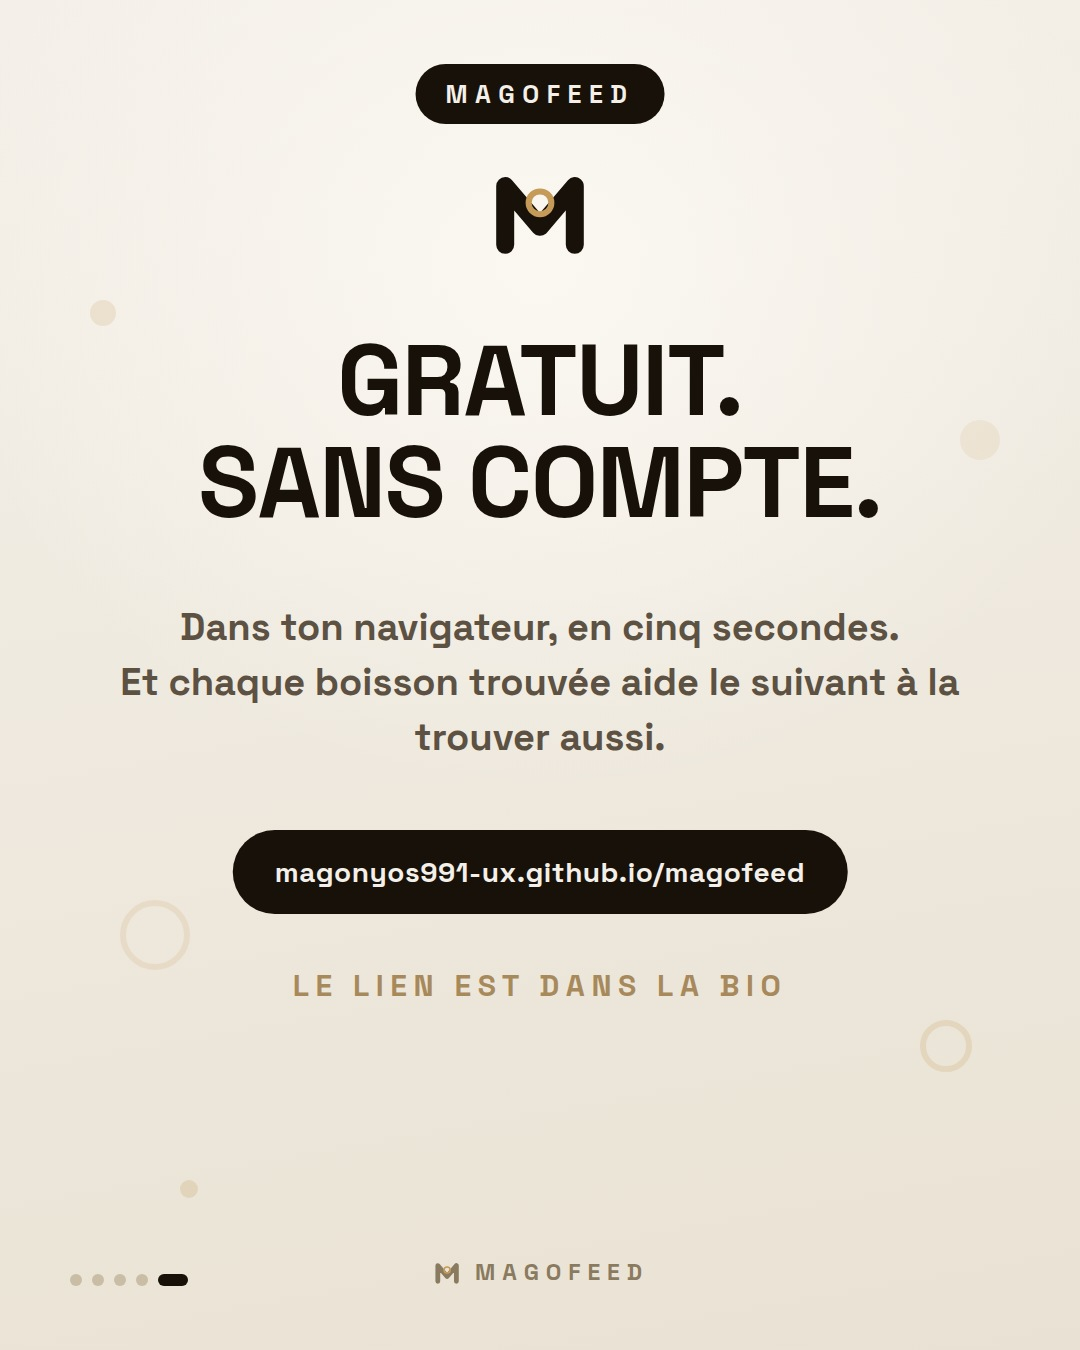
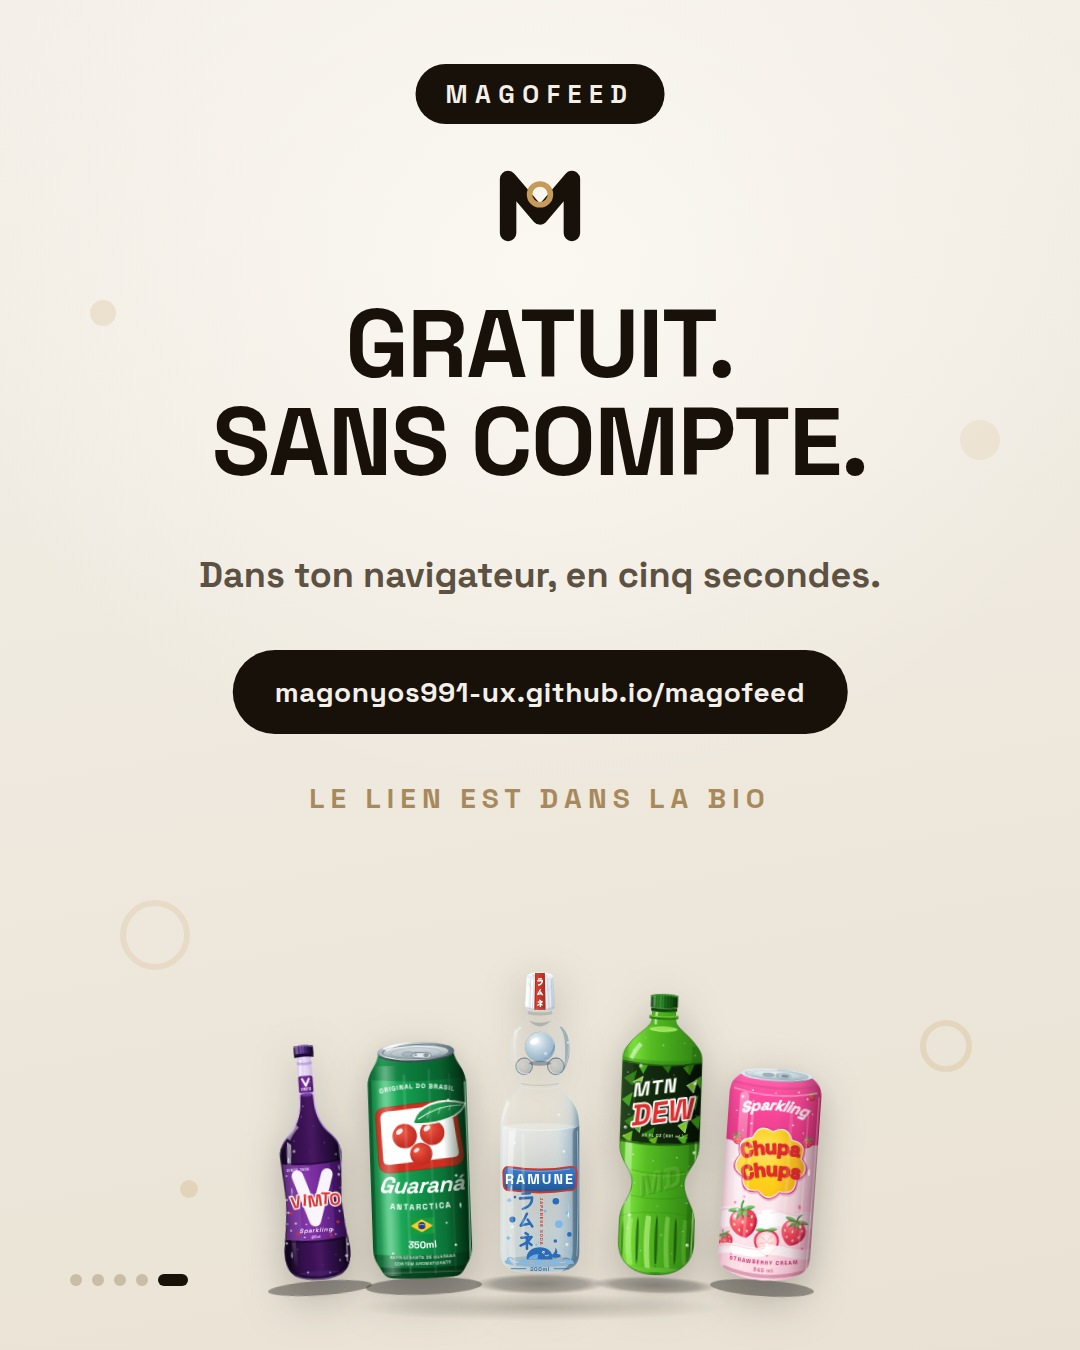
Carrousel : finitions pub sur les 5 diapos
Numeros d'etape en pastille doree, ombre de sol sous le telephone, la
bouteille Mountain Dew qui depasse a cote de l'ecran de recherche
(continuite avec la couverture), et la diapo finale refermee par l'etal
de boissons en petit sous l'appel a l'action, texte allege.

Claude-Session: https://claude.ai/code/session_01CjYjWML87j47KanLEUY7E6

diff --git a/promo/carrousel/make-slides.py b/promo/carrousel/make-slides.py
@@ -24,17 +24,20 @@ LINEUP = [
     ("mountain-dew", 745, 600,  2, 4),
     ("chupa-chups",  935, 500,  4, 3),
 ]
-def etal():
-    out=['<div style="position:absolute;left:50%;bottom:52px;width:960px;height:70px;'
-         'transform:translateX(-50%);z-index:2;border-radius:50%;'
-         'background:radial-gradient(closest-side,rgba(23,17,10,.22),transparent 70%)"></div>']
+def etal(scale=1.0, baseline=96):
+    sh=int(70*scale)
+    out=['<div style="position:absolute;left:50%%;bottom:%dpx;width:%dpx;height:%dpx;'
+         'transform:translateX(-50%%);z-index:2;border-radius:50%%;'
+         'background:radial-gradient(closest-side,rgba(23,17,10,.22),transparent 70%%)"></div>'
+         % (baseline-44*scale, int(960*scale), sh)]
     for slug,cx,h,rot,z in LINEUP:
-        w=int(h*900/1400)
+        h=int(h*scale); w=int(h*900/1400)
+        cx=int(540+(cx-540)*scale)
         left=int(cx-w/2)
-        out.append('<div class="bt" style="position:absolute;left:%dpx;bottom:96px;width:%dpx;height:%dpx;'
+        out.append('<div class="bt" style="position:absolute;left:%dpx;bottom:%dpx;width:%dpx;height:%dpx;'
                    'z-index:%d;transform:rotate(%ddeg);transform-origin:50%% 100%%;'
-                   'filter:drop-shadow(0 24px 38px rgba(23,17,10,.28))">%s</div>'
-                   % (left,w,h,z+2,rot,bottle_svg(slug)))
+                   'filter:drop-shadow(0 %dpx %dpx rgba(23,17,10,.28))">%s</div>'
+                   % (left,baseline,w,h,z+2,rot,int(24*scale),int(38*scale),bottle_svg(slug)))
     return '<div style="position:absolute;inset:0;z-index:3">'+"".join(out)+"</div>"
 
 BASE = u"""<!doctype html><html><head><meta charset="utf-8"><style>
@@ -51,9 +54,13 @@ html,body{width:1080px;height:1350px;overflow:hidden}
 .chip{position:absolute;left:50%%;top:64px;transform:translateX(-50%%);z-index:6;
   display:inline-flex;align-items:center;gap:12px;border-radius:999px;padding:14px 30px;
   font-size:25px;font-weight:700;letter-spacing:.3em;color:#f4f0e9;background:#17110a}
-.step{position:absolute;left:50%%;top:132px;transform:translateX(-50%%);z-index:6;
-  font-size:26px;font-weight:700;letter-spacing:.34em;color:#a8895c}
-.title{position:absolute;left:70px;right:70px;top:176px;z-index:6;text-align:center;
+.num{position:absolute;left:50%%;top:118px;transform:translateX(-50%%);z-index:6;
+  width:66px;height:66px;border-radius:50%%;background:#c69a57;color:#fff;
+  display:flex;align-items:center;justify-content:center;font-size:34px;font-weight:700;
+  box-shadow:0 10px 26px rgba(198,154,87,.4)}
+.pshadow{position:absolute;left:50%%;top:1226px;width:520px;height:52px;transform:translateX(-50%%);
+  z-index:3;border-radius:50%%;background:radial-gradient(closest-side,rgba(23,17,10,.24),transparent 70%%)}
+.title{position:absolute;left:70px;right:70px;top:206px;z-index:6;text-align:center;
   font-size:%(titleSize)spx;line-height:1.02;font-weight:700;letter-spacing:-.015em;color:#17110a}
 .sub{position:absolute;left:120px;right:120px;top:%(subTop)spx;z-index:6;text-align:center;
   font-size:33px;font-weight:500;line-height:1.4;color:#5c5142}
@@ -118,49 +125,51 @@ SLIDES = [
           + etal()),
     swipe=FLECHE, page=0),
   # 2 — etape 1
-  dict(step=u"ÉTAPE 1 / 3", titleSize=78, subTop=294, phoneTop=470, tilt=0, extraCss="",
-    body=(u'<div class="step">ÉTAPE 1 / 3</div>'
-          u'<div class="title">CHERCHE TA BOISSON</div>'
+  dict(step=u"ÉTAPE 1 / 3", titleSize=78, subTop=316, phoneTop=480, tilt=0, extraCss="",
+    body=(u'<div class="num">1</div>'
+          u'<div class="title">CHERCHE TA BOISSON</div><div class="pshadow"></div>'
+          + '<div class="bt" style="position:absolute;left:640px;bottom:104px;width:232px;height:360px;z-index:3;transform:rotate(10deg);transform-origin:50% 100%;filter:drop-shadow(0 20px 30px rgba(23,17,10,.25))">'+bottle_svg('mountain-dew')+'</div>'
           u'<div class="sub">Tape son nom — sodas japonais, mexicains, coréens… le catalogue mondial est déjà dedans.</div>'
           + phone("recherche", 470)),
     swipe=FLECHE, page=1),
   # 3 — etape 2
-  dict(step=u"ÉTAPE 2 / 3", titleSize=78, subTop=294, phoneTop=470, tilt=0, extraCss="",
-    body=(u'<div class="step">ÉTAPE 2 / 3</div>'
-          u'<div class="title">LA CARTE S’OUVRE</div>'
+  dict(step=u"ÉTAPE 2 / 3", titleSize=78, subTop=316, phoneTop=480, tilt=0, extraCss="",
+    body=(u'<div class="num">2</div>'
+          u'<div class="title">LA CARTE S’OUVRE</div><div class="pshadow"></div>'
           u'<div class="sub">Les magasins autour de toi s’affichent. Pin vert = rayon confirmé récemment.</div>'
           + phone("carte", 470, 0, "left:179px;top:354px;width:95px;height:95px")),
     swipe=FLECHE, page=2),
   # 4 — etape 3
-  dict(step=u"ÉTAPE 3 / 3", titleSize=78, subTop=294, phoneTop=470, tilt=0, extraCss="",
-    body=(u'<div class="step">ÉTAPE 3 / 3</div>'
-          u'<div class="title">APPUIE SUR « Y ALLER »</div>'
+  dict(step=u"ÉTAPE 3 / 3", titleSize=78, subTop=316, phoneTop=480, tilt=0, extraCss="",
+    body=(u'<div class="num">3</div>'
+          u'<div class="title">APPUIE SUR « Y ALLER »</div><div class="pshadow"></div>'
           u'<div class="sub">L’itinéraire s’ouvre dans Maps ou Waze. Trouvée ? Confirme — tu aides le suivant.</div>'
           + phone("fiche", 470, 0, "left:31px;top:215px;width:294px;height:70px;border-radius:26px")),
     swipe=FLECHE, page=3),
   # 5 — CTA
   dict(step="", titleSize=96, subTop=0, phoneTop=0, tilt=0, extraCss="""
-.title{top:330px;font-size:100px}
-.cta-sub{position:absolute;left:110px;right:110px;top:600px;z-index:6;text-align:center;
-  font-size:38px;font-weight:600;line-height:1.45;color:#5c5142}
-.url{position:absolute;left:50%;top:830px;transform:translateX(-50%);z-index:6;
+.title{top:296px;font-size:96px}
+.cta-sub{position:absolute;left:110px;right:110px;top:552px;z-index:6;text-align:center;
+  font-size:36px;font-weight:600;color:#5c5142}
+.url{position:absolute;left:50%;top:650px;transform:translateX(-50%);z-index:6;
   padding:24px 42px;border-radius:999px;background:#17110a;color:#f4f0e9;
   font-size:28px;font-weight:700;letter-spacing:.02em;white-space:nowrap}
-.bio{position:absolute;left:0;right:0;top:966px;z-index:6;text-align:center;
-  font-size:30px;font-weight:700;letter-spacing:.22em;color:#a8895c}
-.mlogo{position:absolute;left:50%;top:150px;transform:translateX(-50%);z-index:6;width:120px;height:120px}
+.bio{position:absolute;left:0;right:0;top:780px;z-index:6;text-align:center;
+  font-size:28px;font-weight:700;letter-spacing:.22em;color:#a8895c}
+.mlogo{position:absolute;left:50%;top:146px;transform:translateX(-50%);z-index:6;width:110px;height:110px}
 """,
     body=(u'<svg class="mlogo" viewBox="0 0 200 200"><path d="M42 158V60l58 68 58-68v98" fill="none" stroke="#17110a" stroke-width="30" stroke-linecap="round" stroke-linejoin="round"/><circle cx="100" cy="88" r="19" fill="none" stroke="#c69a57" stroke-width="10"/></svg>'
           u'<div class="title">GRATUIT.<br>SANS COMPTE.</div>'
-          u'<div class="cta-sub">Dans ton navigateur, en cinq secondes.<br>Et chaque boisson trouvée aide le suivant à la trouver aussi.</div>'
+          u'<div class="cta-sub">Dans ton navigateur, en cinq secondes.</div>'
           u'<div class="url">magonyos991-ux.github.io/magofeed</div>'
-          u'<div class="bio">LE LIEN EST DANS LA BIO</div>'),
+          u'<div class="bio">LE LIEN EST DANS LA BIO</div>'
+          + etal(0.56, 48)),
     swipe="", page=4),
 ]
 
 import sys
 for i, sl in enumerate(SLIDES, 1):
-    wm = ('<div class="wm"><svg viewBox="0 0 200 200"><path d="M42 158V60l58 68 58-68v98" fill="none" stroke="#8a7a5f" stroke-width="30" stroke-linecap="round" stroke-linejoin="round"/><circle cx="100" cy="88" r="19" fill="none" stroke="#c69a57" stroke-width="10"/></svg>MAGOFEED</div>') if i == 5 else ""
+    wm = ('<div class="wm"><svg viewBox="0 0 200 200"><path d="M42 158V60l58 68 58-68v98" fill="none" stroke="#8a7a5f" stroke-width="30" stroke-linecap="round" stroke-linejoin="round"/><circle cx="100" cy="88" r="19" fill="none" stroke="#c69a57" stroke-width="10"/></svg>MAGOFEED</div>') if False else ""
     page = BASE % dict(fonts=FONTS, titleSize=sl["titleSize"], subTop=sl["subTop"],
                        phoneTop=sl["phoneTop"], tilt=sl["tilt"], extraCss=sl["extraCss"],
                        body=sl["body"], swipe=sl["swipe"], pager=pager(sl["page"]), wmHtml=wm)
